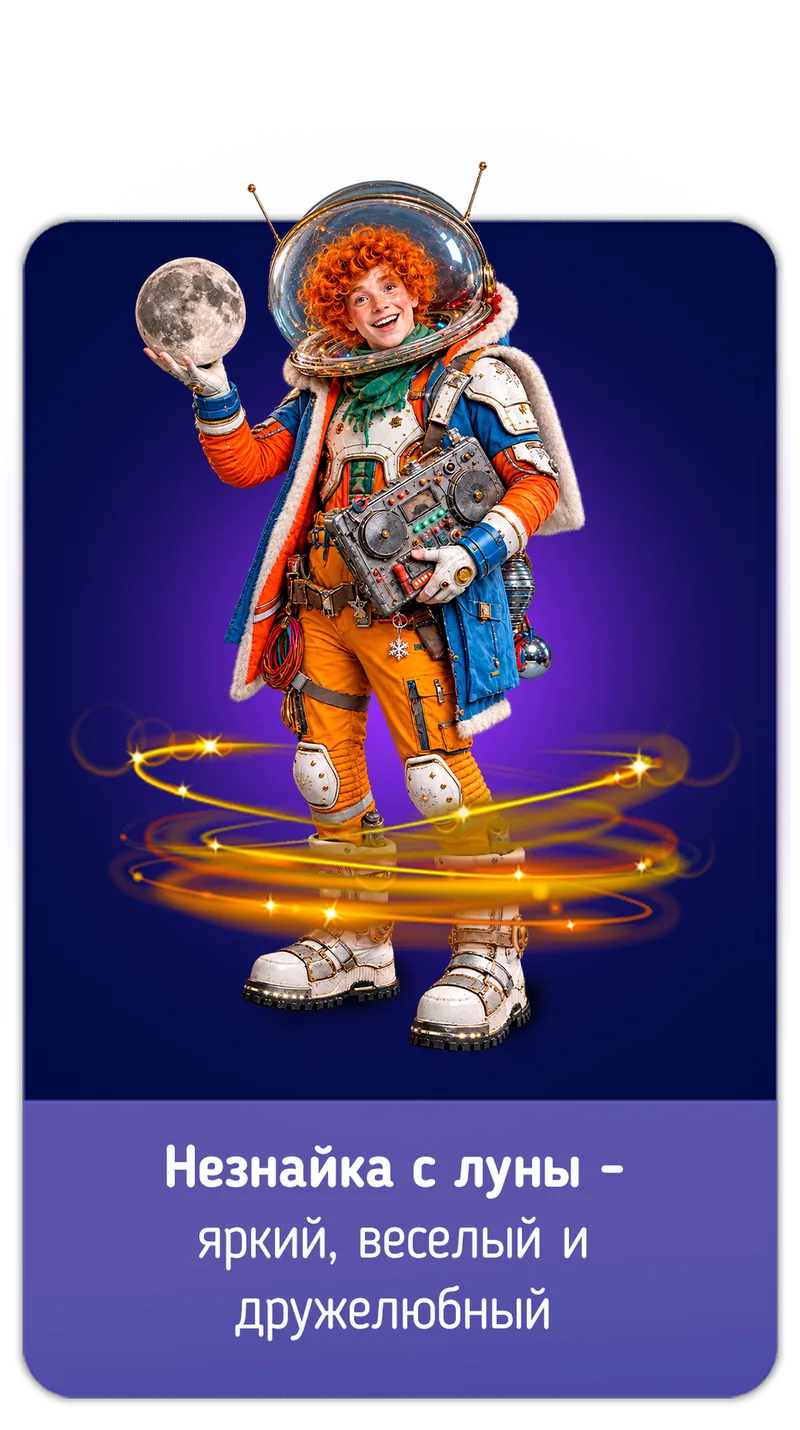
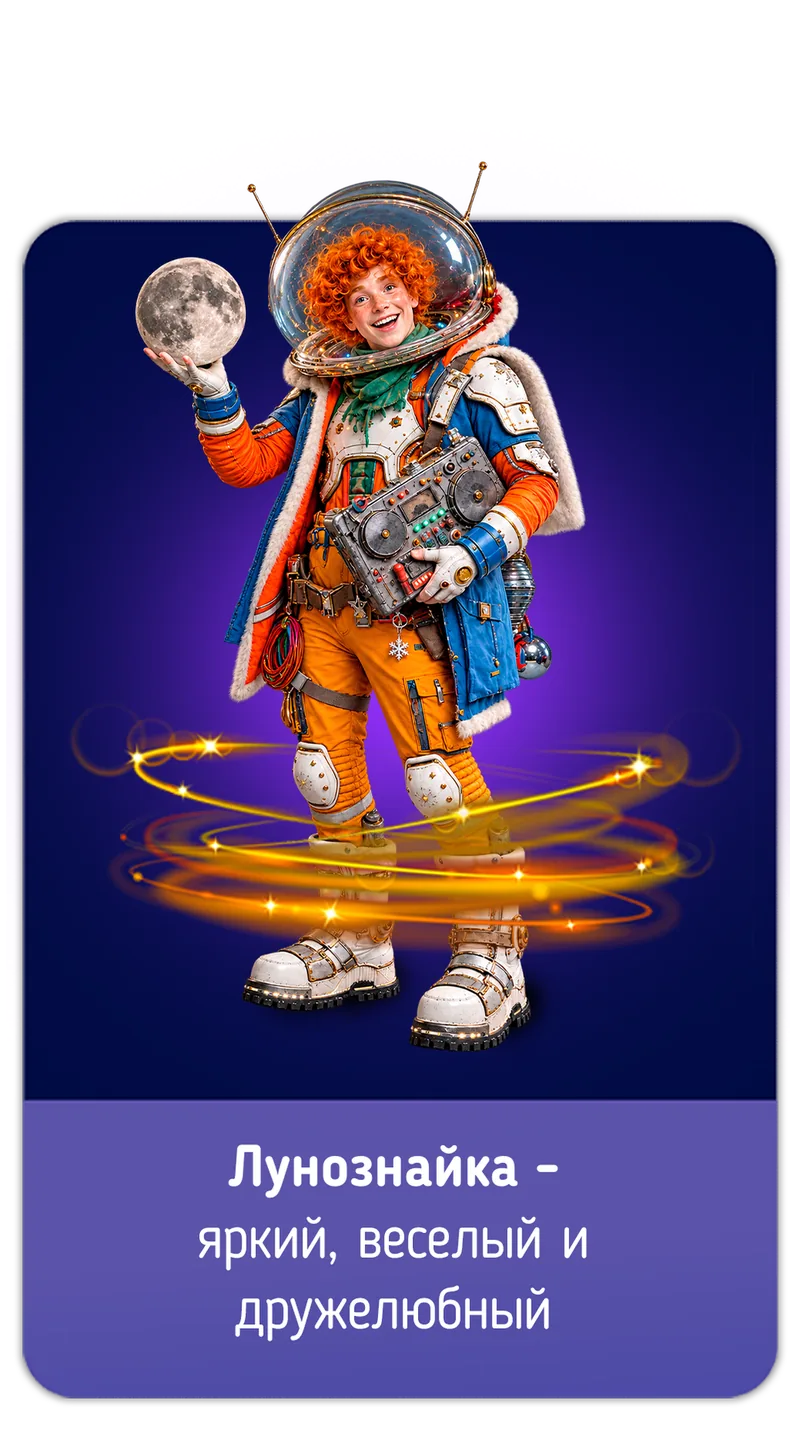
Персонаж: «Незнайка с Луны» → «Лунознайка» на всех страницах
Тексты Нижнего, Казани и Тюмени, страница вариантов программы,
подпись внутри карточки персонажа (исходник PNG перерисован,
карточка пересобрана personazhi.py). В Казань и Тюмень правка
внесена руками, а не sinhron.py: у Нижнего с прошлой синхронизации
накопился экран истории с роликом, который в города пока не переносят.

Changed region(s): [[0.1875, 0.8, 0.7812, 0.8615]]

diff --git a/v2.html b/v2.html
@@ -5500,7 +5500,7 @@ html.zs-lock .nav{margin-right:var(--zs-sbw,0px)}
   /* Сверху живёт то, что торчит выше карточки. Замер выгрузок `pers/*.webp`
      (альфа-канал, 10.09.2026): Дед Мороз поднимает посох на 27,2 % ширины
      карточки, карамельщики на 18,5, Байконкурочка 13,8, министр 13,6,
-     Незнайка 12,0, астрогном 1,4, мандарианец 1,2. Значит меньше 27,2 %
+     Лунознайка 12,0, астрогном 1,4, мандарианец 1,2. Значит меньше 27,2 %
      ставить нельзя - у Деда срежет посох. 28,5 % это тот же запас плюс
      волосок; было 30 %. Снизу - мягкая кромка вшитой в картинку тени. */
   padding:calc(var(--cf-card) * 0.285) 0 calc(var(--cf-card) * 0.08);
@@ -9575,7 +9575,7 @@ html.zs-lock .nav{margin-right:var(--zs-sbw,0px)}
     </div>
     <div class="im-body">
       <p><b class="im-lead">В Министерстве опять<br class="im-brm"> какая-то заварушка!</b> В главном кабинете решили расширить свое праздничное влияние на всю вселенную и установить первую новогоднюю ёлку на Луне!</p>
-      <p>Для этой миссии даже прибыл Незнайка!</p>
+      <p>Для этой миссии даже прибыл Лунознайка!</p>
       <p>Ваших деток ждет невероятная удача - попасть к нам прямо во время работы «Звёздной смены» и стать ее участниками!</p>
       <p class="im-go">А что конкретно ждет участников внутри - <br class="im-brd">читайте ниже!</p>
     </div>
@@ -10009,7 +10009,7 @@ html.zs-lock .nav{margin-right:var(--zs-sbw,0px)}
       <figure class="cf-card" role="group" aria-roledescription="слайд" aria-label="1 из 7">
         <img loading="lazy" decoding="async" width="800" height="1430" draggable="false"
              src="pers/neznayka.webp"
-             alt="Незнайка с Луны в скафандре и с рюкзаком - яркий, весёлый и дружелюбный">
+             alt="Лунознайка в скафандре и с рюкзаком - яркий, весёлый и дружелюбный">
       </figure>
       <figure class="cf-card" role="group" aria-roledescription="слайд" aria-label="2 из 7">
         <img loading="lazy" decoding="async" width="800" height="1430" draggable="false"
@@ -10202,7 +10202,7 @@ html.zs-lock .nav{margin-right:var(--zs-sbw,0px)}
         </svg>
         </div>
         <div class="pg-panel">
-          <h3 class="pg-t">Экспозиция настоящих метеоритов от Незнайки с Луны</h3>
+          <h3 class="pg-t">Экспозиция настоящих метеоритов от Лунознайки</h3>
           <p class="pg-p">Коллекция настоящих метеоритов из разных уголков нашей Земли будет представлена в кабинете-обсерватории Деда Мороза. Некоторые будут размещены на левитирующих платформах. Это не бутафория, мы привезем настоящие экспонаты со своей историей!</p>
         </div>
         <div class="pg-tag">Входит в программу</div>

diff --git a/kazan.html b/kazan.html
@@ -5424,7 +5424,7 @@ html.zs-lock .nav{margin-right:var(--zs-sbw,0px)}
   /* Сверху живёт то, что торчит выше карточки. Замер выгрузок `pers/*.webp`
      (альфа-канал, 10.09.2026): Дед Мороз поднимает посох на 27,2 % ширины
      карточки, карамельщики на 18,5, Байконкурочка 13,8, министр 13,6,
-     Незнайка 12,0, астрогном 1,4, мандарианец 1,2. Значит меньше 27,2 %
+     Лунознайка 12,0, астрогном 1,4, мандарианец 1,2. Значит меньше 27,2 %
      ставить нельзя - у Деда срежет посох. 28,5 % это тот же запас плюс
      волосок; было 30 %. Снизу - мягкая кромка вшитой в картинку тени. */
   padding:calc(var(--cf-card) * 0.285) 0 calc(var(--cf-card) * 0.08);
@@ -9422,7 +9422,7 @@ html.zs-lock .nav{margin-right:var(--zs-sbw,0px)}
     </div>
     <div class="im-body">
       <p><b class="im-lead">В Министерстве опять<br class="im-brm"> какая-то заварушка!</b> В главном кабинете решили расширить свое праздничное влияние на всю вселенную и установить первую новогоднюю ёлку на Луне!</p>
-      <p>Для этой миссии даже прибыл Незнайка!</p>
+      <p>Для этой миссии даже прибыл Лунознайка!</p>
       <p>Ваших деток ждет невероятная удача - попасть к нам прямо во время работы «Звёздной смены» и стать ее участниками!</p>
       <p class="im-go">А что конкретно ждет участников внутри - <br class="im-brd">читайте ниже!</p>
     </div>
@@ -9758,7 +9758,7 @@ html.zs-lock .nav{margin-right:var(--zs-sbw,0px)}
       <figure class="cf-card" role="group" aria-roledescription="слайд" aria-label="1 из 7">
         <img loading="lazy" decoding="async" width="800" height="1430" draggable="false"
              src="pers/neznayka.webp"
-             alt="Незнайка с Луны в скафандре и с рюкзаком - яркий, весёлый и дружелюбный">
+             alt="Лунознайка в скафандре и с рюкзаком - яркий, весёлый и дружелюбный">
       </figure>
       <figure class="cf-card" role="group" aria-roledescription="слайд" aria-label="2 из 7">
         <img loading="lazy" decoding="async" width="800" height="1430" draggable="false"
@@ -9951,7 +9951,7 @@ html.zs-lock .nav{margin-right:var(--zs-sbw,0px)}
         </svg>
         </div>
         <div class="pg-panel">
-          <h3 class="pg-t">Экспозиция настоящих метеоритов от Незнайки с Луны</h3>
+          <h3 class="pg-t">Экспозиция настоящих метеоритов от Лунознайки</h3>
           <p class="pg-p">Коллекция настоящих метеоритов из разных уголков нашей Земли будет представлена в кабинете-обсерватории Деда Мороза. Некоторые будут размещены на левитирующих платформах. Это не бутафория, мы привезем настоящие экспонаты со своей историей!</p>
         </div>
         <div class="pg-tag">Входит в программу</div>

diff --git a/tyumen.html b/tyumen.html
@@ -5739,7 +5739,7 @@ html.zs-lock .nav{margin-right:var(--zs-sbw,0px)}
   /* Сверху живёт то, что торчит выше карточки. Замер выгрузок `pers/*.webp`
      (альфа-канал, 10.09.2026): Дед Мороз поднимает посох на 27,2 % ширины
      карточки, карамельщики на 18,5, Байконкурочка 13,8, министр 13,6,
-     Незнайка 12,0, астрогном 1,4, мандарианец 1,2. Значит меньше 27,2 %
+     Лунознайка 12,0, астрогном 1,4, мандарианец 1,2. Значит меньше 27,2 %
      ставить нельзя - у Деда срежет посох. 28,5 % это тот же запас плюс
      волосок; было 30 %. Снизу - мягкая кромка вшитой в картинку тени. */
   padding:calc(var(--cf-card) * 0.285) 0 calc(var(--cf-card) * 0.08);
@@ -10021,7 +10021,7 @@ html.zs-lock .nav{margin-right:var(--zs-sbw,0px)}
      стоит в `alt`: без этого читалка и поисковик видят пустое место.
 
      ТЮМЕНЬ (16.09.2026): СВОИ СЕМЬ КАРТОЧЕК вместо нижегородских семи —
-     у Тюмени программа А, Незнайки, Байконкурочки, Мандарианца и астрогнома
+     у Тюмени программа А, Лунознайки, Байконкурочки, Мандарианца и астрогнома
      в ней нет; есть Баба Яга, ассистенты министра, Электрошка и Люминесцена.
      Картинки Серёги
      из `~/Desktop/сайт тюмень/экран персонажи/`, собирает `personazhi.py

diff --git a/programma-varianty.html b/programma-varianty.html
@@ -389,7 +389,7 @@ const D = [
   t:'Пульт управления делами Деда Мороза',
   p:'Дед Мороз и Министр докажут детям, что следят за их поведением и знают о них все, показав фото каждого ребенка на экранах пульта управления делами Деда Мороза. Дети всегда в приятном шоке!'},
  {k:'k6', n:6, big:6, g:'kosmos', w:'small',
-  t:'Экспозиция настоящих метеоритов от Незнайки с Луны',
+  t:'Экспозиция настоящих метеоритов от Лунознайки',
   p:'Коллекция настоящих метеоритов из разных уголков нашей Земли будет представлена в кабинете-обсерватории Деда Мороза. Некоторые будут размещены на левитирующих платформах. Это не бутафория, мы привезем настоящие экспонаты со своей историей!'},
  {k:'k9', n:3, big:3, g:'kosmos', w:'small',
   t:'Терменвокс-шоу',
